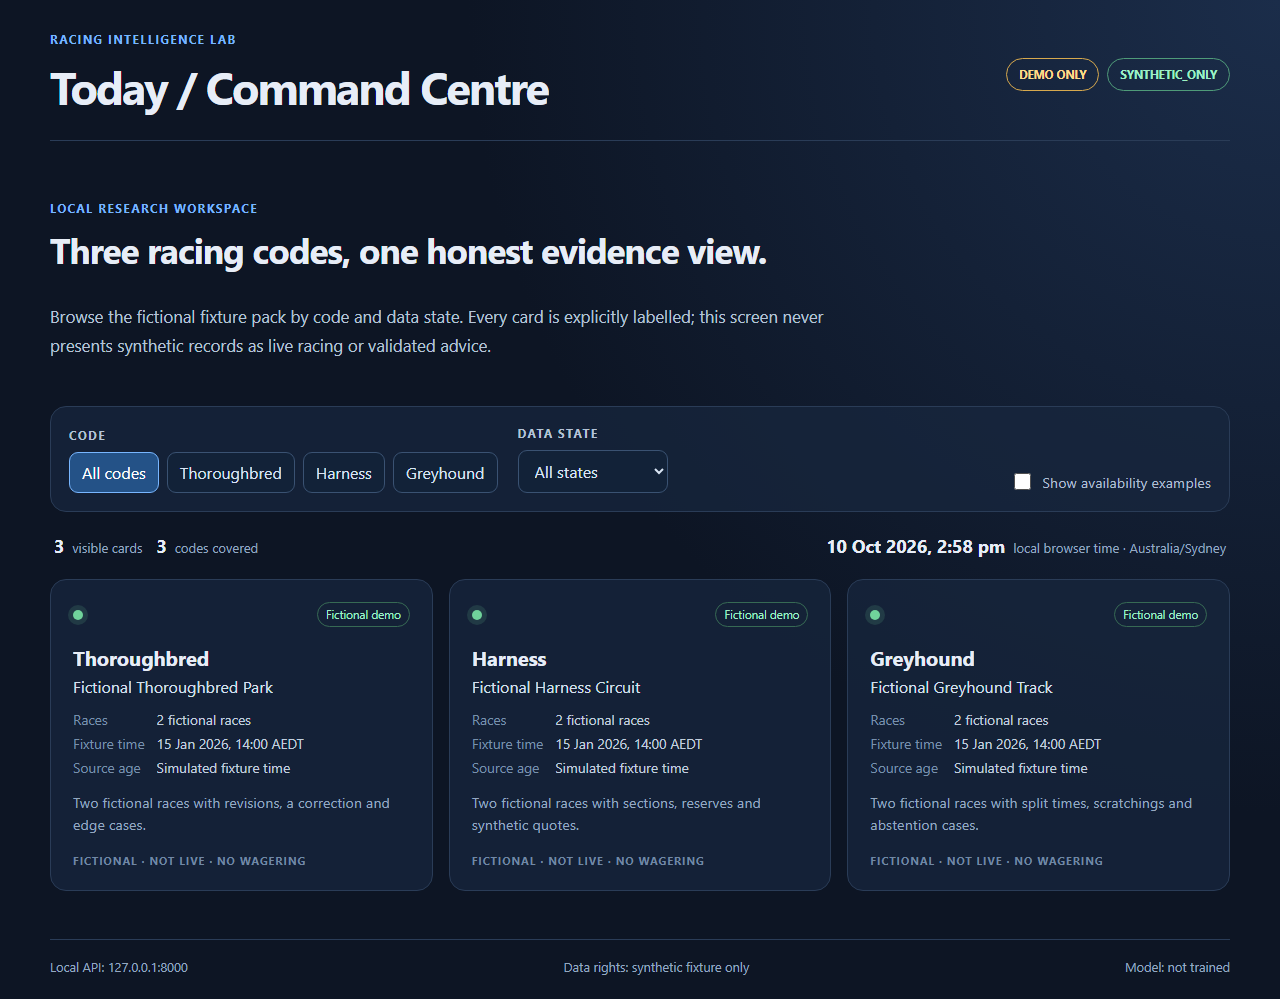
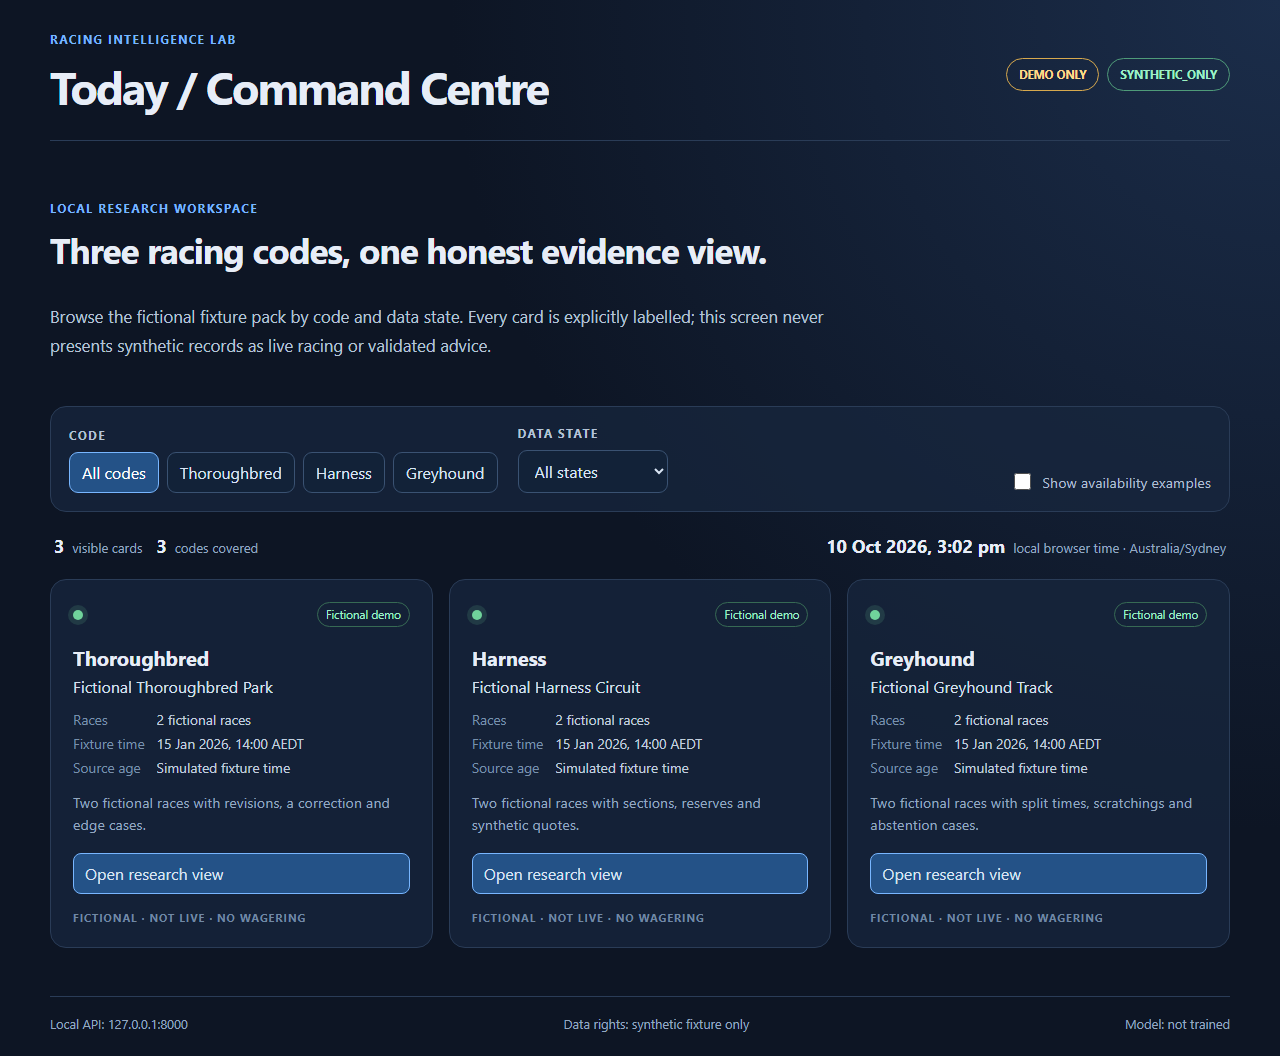
feat: add race research and field revision view

diff --git a/apps/web/src/App.tsx b/apps/web/src/App.tsx
@@ -15,6 +15,19 @@ type CommandItem = {
   note: string;
 };
 
+type EvidenceTab = 'FIELD' | 'PROVENANCE' | 'FORECAST';
+
+type ResearchRace = {
+  code: Exclude<Code, 'ALL'>;
+  meeting: string;
+  raceLabel: string;
+  fieldRevision: string;
+  fieldState: string;
+  observedAt: string;
+  publishedAt: string;
+  entries: Array<{ number: number; name: string; status: 'ACTIVE' | 'SCRATCHED' | 'RESERVE' }>;
+};
+
 const codes: Array<{ value: Code; label: string }> = [
   { value: 'ALL', label: 'All codes' },
   { value: 'THOROUGHBRED', label: 'Thoroughbred' },
@@ -60,6 +73,39 @@ const commandItems: CommandItem[] = [
   },
 ];
 
+const researchRaces: Record<Exclude<Code, 'ALL'>, ResearchRace> = {
+  THOROUGHBRED: {
+    code: 'THOROUGHBRED', meeting: 'Fictional Thoroughbred Park', raceLabel: 'Race 1 · Fictional Maiden',
+    fieldRevision: 'field-r2', fieldState: 'FINAL_FIELDS', observedAt: '15 Jan 2026, 14:00 AEDT', publishedAt: '15 Jan 2026, 13:50 AEDT',
+    entries: [
+      { number: 1, name: 'Fictional Thoroughbred Runner 1-1', status: 'ACTIVE' },
+      { number: 2, name: 'Fictional Thoroughbred Runner 1-2', status: 'SCRATCHED' },
+      { number: 3, name: 'Fictional Thoroughbred Runner 1-3', status: 'ACTIVE' },
+      { number: 4, name: 'Fictional Thoroughbred Runner 1-4', status: 'RESERVE' },
+    ],
+  },
+  HARNESS: {
+    code: 'HARNESS', meeting: 'Fictional Harness Circuit', raceLabel: 'Race 1 · Fictional Pace',
+    fieldRevision: 'field-r2', fieldState: 'FINAL_FIELDS', observedAt: '15 Jan 2026, 14:00 AEDT', publishedAt: '15 Jan 2026, 13:50 AEDT',
+    entries: [
+      { number: 1, name: 'Fictional Harness Runner 1-1', status: 'ACTIVE' },
+      { number: 2, name: 'Fictional Harness Runner 1-2', status: 'SCRATCHED' },
+      { number: 3, name: 'Fictional Harness Runner 1-3', status: 'ACTIVE' },
+      { number: 4, name: 'Fictional Harness Runner 1-4', status: 'RESERVE' },
+    ],
+  },
+  GREYHOUND: {
+    code: 'GREYHOUND', meeting: 'Fictional Greyhound Track', raceLabel: 'Race 1 · Fictional Sprint',
+    fieldRevision: 'field-r2', fieldState: 'FINAL_FIELDS', observedAt: '15 Jan 2026, 14:00 AEDT', publishedAt: '15 Jan 2026, 13:50 AEDT',
+    entries: [
+      { number: 1, name: 'Fictional Greyhound Runner 1-1', status: 'ACTIVE' },
+      { number: 2, name: 'Fictional Greyhound Runner 1-2', status: 'SCRATCHED' },
+      { number: 3, name: 'Fictional Greyhound Runner 1-3', status: 'ACTIVE' },
+      { number: 4, name: 'Fictional Greyhound Runner 1-4', status: 'RESERVE' },
+    ],
+  },
+};
+
 const statusText: Record<Status, string> = {
   DEMO: 'Fictional demo', NO_RACING: 'No racing', NO_DATA: 'No data', UNAVAILABLE: 'Unavailable',
 };
@@ -74,6 +120,8 @@ export default function App() {
   const [selectedCode, setSelectedCode] = useState<Code>('ALL');
   const [selectedStatus, setSelectedStatus] = useState<Status | 'ALL'>('ALL');
   const [showStateExamples, setShowStateExamples] = useState(true);
+  const [selectedRace, setSelectedRace] = useState<Exclude<Code, 'ALL'> | null>(null);
+  const [evidenceTab, setEvidenceTab] = useState<EvidenceTab>('FIELD');
   const visibleItems = useMemo(
     () => commandItems.filter((item) =>
       (selectedCode === 'ALL' || item.code === selectedCode) &&
@@ -112,11 +160,27 @@ export default function App() {
           <div className="card-topline"><span className="status-dot" aria-hidden="true" /><span className="status-pill">{statusText[item.status]}</span></div>
           <h3>{item.label}</h3>{item.meeting && <p className="meeting-name">{item.meeting}</p>}
           <dl className="card-facts">{item.races !== undefined && <><dt>Races</dt><dd>{item.races} fictional races</dd></>}{item.localTime && <><dt>Fixture time</dt><dd>{item.localTime}</dd></>}<dt>Source age</dt><dd>{item.sourceAge}</dd></dl>
-          <p className="card-note">{item.note}</p><span className="card-watermark">FICTIONAL · NOT LIVE · NO WAGERING</span>
+          <p className="card-note">{item.note}</p>
+          {item.status === 'DEMO' && <button className="research-button" onClick={() => { setSelectedRace(item.code); setEvidenceTab('FIELD'); }} type="button">Open research view</button>}
+          <span className="card-watermark">FICTIONAL · NOT LIVE · NO WAGERING</span>
         </article>)}
       </section>
       {visibleItems.length === 0 && <section className="empty-state" aria-live="polite"><p className="eyebrow">NO MATCHING STATES</p><h3>No cards match these filters.</h3><p>Change the code or data-state filter. No racing data is invented to fill an empty view.</p></section>}
+      {selectedRace && <ResearchView race={researchRaces[selectedRace]} evidenceTab={evidenceTab} onClose={() => setSelectedRace(null)} onTabChange={setEvidenceTab} />}
       <footer className="footer"><span>Local API: 127.0.0.1:8000</span><span>Data rights: synthetic fixture only</span><span>Model: not trained</span></footer>
     </main>
   );
+}
+
+function ResearchView({ race, evidenceTab, onClose, onTabChange }: { race: ResearchRace; evidenceTab: EvidenceTab; onClose: () => void; onTabChange: (tab: EvidenceTab) => void }) {
+  return <section className="research-view" aria-label="Race research view">
+    <div className="research-heading"><div><p className="eyebrow">RESEARCH VIEW · SYNTHETIC DEMO</p><h2>{race.meeting} · {race.raceLabel}</h2><p className="research-subtitle">Field revision <strong>{race.fieldRevision}</strong> · {race.fieldState} · fictional record</p></div><button className="close-button" onClick={onClose} type="button">Close view</button></div>
+    <div className="research-facts"><div><span>Observed</span><strong>{race.observedAt}</strong></div><div><span>Published</span><strong>{race.publishedAt}</strong></div><div><span>Data mode</span><strong>SYNTHETIC_ONLY</strong></div></div>
+    <div className="evidence-tabs" role="tablist" aria-label="Race evidence tabs">
+      {([['FIELD', 'Field'], ['PROVENANCE', 'Provenance'], ['FORECAST', 'Forecast archive']] as const).map(([value, label]) => <button aria-selected={evidenceTab === value} className={evidenceTab === value ? 'tab selected' : 'tab'} key={value} onClick={() => onTabChange(value)} role="tab" type="button">{label}</button>)}
+    </div>
+    {evidenceTab === 'FIELD' && <div className="evidence-panel" role="tabpanel"><div className="panel-heading"><h3>Entries at {race.fieldRevision}</h3><span className="status-pill">Current field</span></div><table><caption>Fictional entries and field state</caption><thead><tr><th scope="col">No.</th><th scope="col">Participant</th><th scope="col">State</th></tr></thead><tbody>{race.entries.map((entry) => <tr key={entry.number}><td>{entry.number}</td><td>{entry.name}</td><td><span className={`entry-state entry-${entry.status.toLowerCase()}`}>{entry.status}</span></td></tr>)}</tbody></table><p className="panel-note">A scratching created {race.fieldRevision}; the prior forecast is retained but no longer current.</p></div>}
+    {evidenceTab === 'PROVENANCE' && <div className="evidence-panel" role="tabpanel"><div className="panel-heading"><h3>Available evidence</h3><span className="status-pill">Receipt verified</span></div><dl className="provenance-facts"><dt>Source receipt</dt><dd>synthetic://{race.code.toLowerCase()}/race-001</dd><dt>First observed</dt><dd>{race.observedAt}</dd><dt>Publication proof</dt><dd>{race.publishedAt}</dd><dt>Rights state</dt><dd>SYNTHETIC · fictional fixture</dd><dt>External connectivity</dt><dd>Disabled</dd></dl></div>}
+    {evidenceTab === 'FORECAST' && <div className="evidence-panel" role="tabpanel"><div className="panel-heading"><h3>Archived forecast</h3><span className="invalidated-pill">INVALIDATED BY FIELD REVISION</span></div><dl className="provenance-facts"><dt>Forecast ID</dt><dd>forecast-{race.code.toLowerCase()}-r1</dd><dt>Model</dt><dd>B1 illustrative · not validated</dd><dt>Forecast field</dt><dd>field-r1 (superseded)</dd><dt>Current field</dt><dd>{race.fieldRevision}</dd><dt>Action</dt><dd>No reuse after scratching; archive remains immutable.</dd></dl></div>}
+  </section>;
 }

diff --git a/apps/web/src/styles.css b/apps/web/src/styles.css
@@ -47,9 +47,41 @@ select { min-width: 150px; }
 .card-facts dt { color: #7890ab; }
 .card-facts dd { margin: 0; color: #c0cede; }
 .card-note { color: #94a8c0; font-size: 0.9rem; line-height: 1.5; margin-bottom: 18px; }
+.research-button { color: #d9e5f4; background: #245287; border: 1px solid #78b6ff; border-radius: 8px; padding: 9px 11px; margin: 0 0 16px; text-align: left; }
+.research-button:hover, .research-button:focus-visible { background: #316aa9; }
 .card-watermark { color: #7188a4; font-size: 0.68rem; font-weight: 750; letter-spacing: 0.09em; margin-top: auto; }
+.research-view { margin-top: 24px; padding: 24px; background: rgba(15, 29, 49, 0.96); border: 1px solid #4d709a; border-radius: 16px; box-shadow: 0 20px 55px rgba(0, 0, 0, 0.2); }
+.research-heading { display: flex; justify-content: space-between; align-items: flex-start; gap: 20px; }
+.research-heading h2 { margin-bottom: 8px; max-width: none; }
+.research-subtitle { color: #b6c4d7; }
+.research-subtitle strong { color: #9ff0c6; }
+.close-button { color: #c5d4e6; background: transparent; border: 1px solid #526b89; border-radius: 8px; padding: 8px 11px; }
+.close-button:hover, .close-button:focus-visible { border-color: #fff; color: #fff; }
+.research-facts { display: grid; grid-template-columns: repeat(3, 1fr); gap: 12px; margin: 20px 0; }
+.research-facts > div, .provenance-facts { background: #142740; border: 1px solid #2a4667; border-radius: 10px; padding: 13px; }
+.research-facts span { display: block; color: #7890ab; font-size: 0.76rem; margin-bottom: 5px; text-transform: uppercase; letter-spacing: 0.06em; }
+.research-facts strong { color: #d5e0ee; font-size: 0.88rem; }
+.evidence-tabs { display: flex; gap: 6px; border-bottom: 1px solid #2a4667; }
+.tab { color: #aebed0; background: transparent; border: 0; border-bottom: 2px solid transparent; padding: 11px 13px; }
+.tab.selected { color: #fff; border-bottom-color: #78b6ff; }
+.evidence-panel { padding-top: 20px; }
+.panel-heading { display: flex; justify-content: space-between; align-items: center; gap: 12px; }
+.panel-heading h3 { margin-bottom: 0; }
+table { width: 100%; border-collapse: collapse; margin-top: 12px; font-size: 0.9rem; }
+caption { color: #7890ab; text-align: left; margin-bottom: 8px; }
+th, td { border-bottom: 1px solid #293f5c; padding: 10px 8px; text-align: left; }
+th { color: #8fa8c4; font-size: 0.76rem; letter-spacing: 0.06em; text-transform: uppercase; }
+.entry-state { border-radius: 999px; padding: 4px 8px; font-size: 0.72rem; font-weight: 700; }
+.entry-active { color: #9ff0c6; background: #1c4a37; }
+.entry-scratched { color: #ffb3b3; background: #512d35; }
+.entry-reserve { color: #ffdc8a; background: #55431e; }
+.panel-note { color: #94a8c0; font-size: 0.86rem; }
+.provenance-facts { display: grid; grid-template-columns: minmax(150px, 0.35fr) 1fr; gap: 8px 16px; margin: 14px 0 0; }
+.provenance-facts dt { color: #7890ab; }
+.provenance-facts dd { margin: 0; color: #d5e0ee; overflow-wrap: anywhere; }
+.invalidated-pill { color: #ffb3b3; border: 1px solid #7f4545; border-radius: 999px; font-size: 0.72rem; padding: 5px 8px; }
 .empty-state { border: 1px dashed #3a5272; border-radius: 16px; padding: 32px; margin-top: 16px; color: #b6c4d7; }
 .empty-state h3 { color: #e7edf7; }
 .footer { border-top: 1px solid #2a3c57; margin-top: 48px; padding-top: 18px; font-size: 0.8rem; color: #94a8c0; }
 @media (max-width: 820px) { .code-grid { grid-template-columns: repeat(2, 1fr); } .state-toggle { margin-left: 0; } .summary-strip { grid-template-columns: 1fr 1fr; } .summary-strip > div:last-child { grid-column: 1 / -1; justify-self: start; } }
-@media (max-width: 580px) { .shell { width: min(100% - 24px, 560px); padding-top: 20px; } .topbar, .footer { align-items: flex-start; flex-direction: column; } .header-badges { justify-content: flex-start; } .intro { padding-top: 44px; } .code-grid { grid-template-columns: 1fr; } .command-panel { align-items: stretch; flex-direction: column; } select { width: 100%; } }
+@media (max-width: 580px) { .shell { width: min(100% - 24px, 560px); padding-top: 20px; } .topbar, .footer { align-items: flex-start; flex-direction: column; } .header-badges { justify-content: flex-start; } .intro { padding-top: 44px; } .code-grid { grid-template-columns: 1fr; } .command-panel { align-items: stretch; flex-direction: column; } select { width: 100%; } .research-view { padding: 16px; } .research-heading { flex-direction: column; } .research-facts { grid-template-columns: 1fr; } .provenance-facts { grid-template-columns: 1fr; } }

diff --git a/e2e/command-centre.spec.ts b/e2e/command-centre.spec.ts
@@ -9,6 +9,18 @@ test('command centre filters codes and distinguishes data states', async ({ page
   await expect(page.getByText('Fictional Harness Circuit')).toBeVisible();
   await expect(page.getByText('Fictional Greyhound Track')).toBeVisible();
 
+  await page.getByRole('button', { name: 'Open research view' }).first().click();
+  await expect(page.getByRole('region', { name: 'Race research view' })).toBeVisible();
+  await expect(page.getByText('field-r2', { exact: true })).toBeVisible();
+  await expect(page.getByRole('table')).toBeVisible();
+  await expect(page.getByText('SCRATCHED')).toBeVisible();
+  await page.getByRole('tab', { name: 'Forecast archive' }).click();
+  await expect(page.getByText('INVALIDATED BY FIELD REVISION')).toBeVisible();
+  await page.getByRole('tab', { name: 'Provenance' }).click();
+  await expect(page.getByText('Receipt verified')).toBeVisible();
+  await page.screenshot({ path: 'docs/evidence/ril-018/race-research-view.png', fullPage: true });
+  await page.getByRole('button', { name: 'Close view' }).click();
+
   await page.getByRole('button', { name: 'Greyhound' }).click();
   await expect(page.getByRole('region', { name: 'Today command cards' }).getByText('No racing')).toBeVisible();
   await expect(page.getByText('Fictional Greyhound Track')).toBeVisible();

diff --git a/README_START_HERE.md b/README_START_HERE.md
@@ -8,8 +8,8 @@ Racing Intelligence Lab is an independent, single-user, local-first research app
 - **Data mode:** synthetic-only for the active MVP; fictional fixtures must remain visibly labelled.
 - **Model status:** illustrative B0/B1 baselines only; no validated predictive claim.
 - **Wagering:** permanently out of scope; no bookmaker credentials, order endpoints or automatic staking.
-- **Current checkpoint:** RIL-017 responsive Today/Command Centre is implemented with code/state filters and Playwright evidence.
-- **Next ticket:** RIL-018, after the RIL-017 evidence is accepted.
+- **Current checkpoint:** RIL-018 race research view is implemented with field revisions, provenance tabs, forecast invalidation and Playwright evidence.
+- **Next ticket:** RIL-019, after the RIL-018 evidence is accepted.
 
 ## Normative reading order
 
